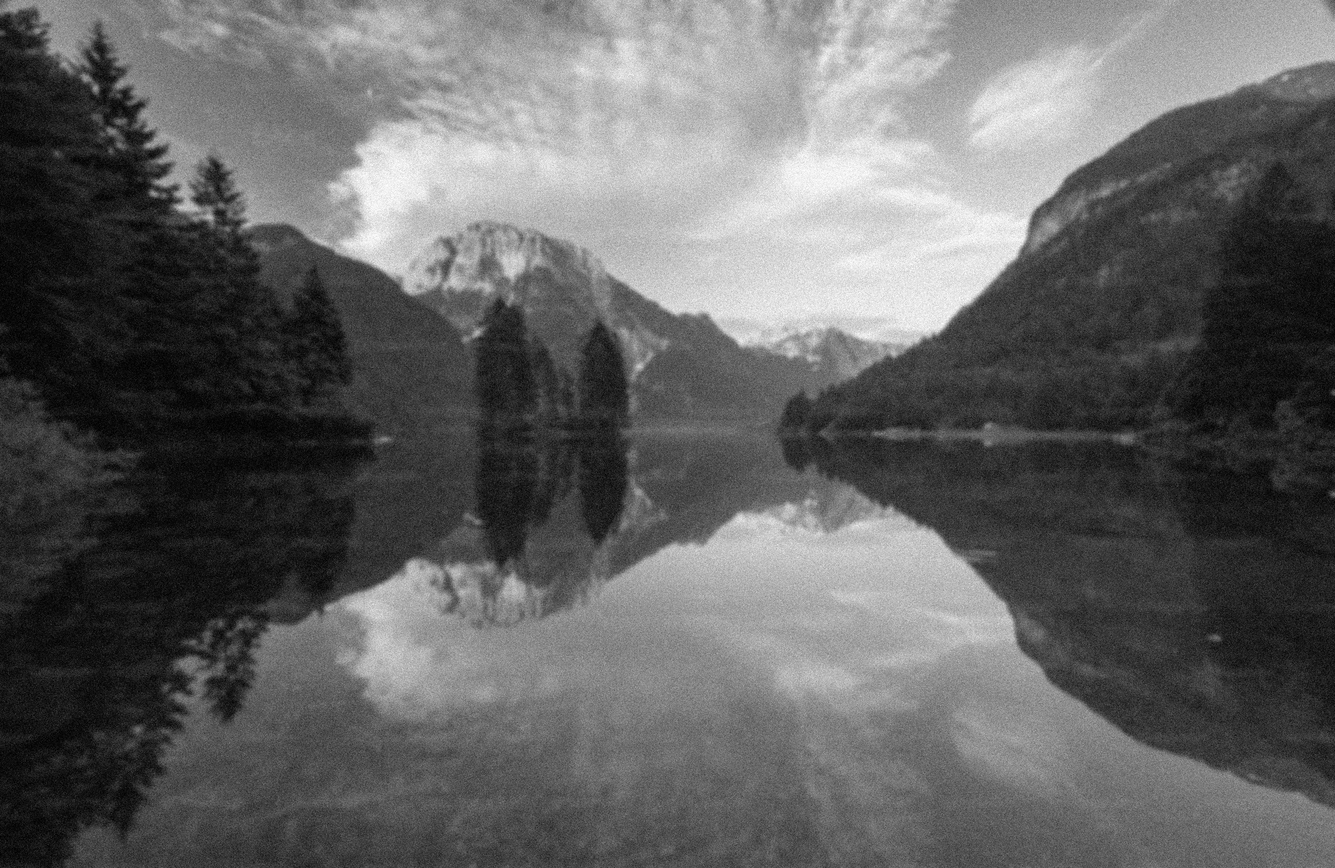
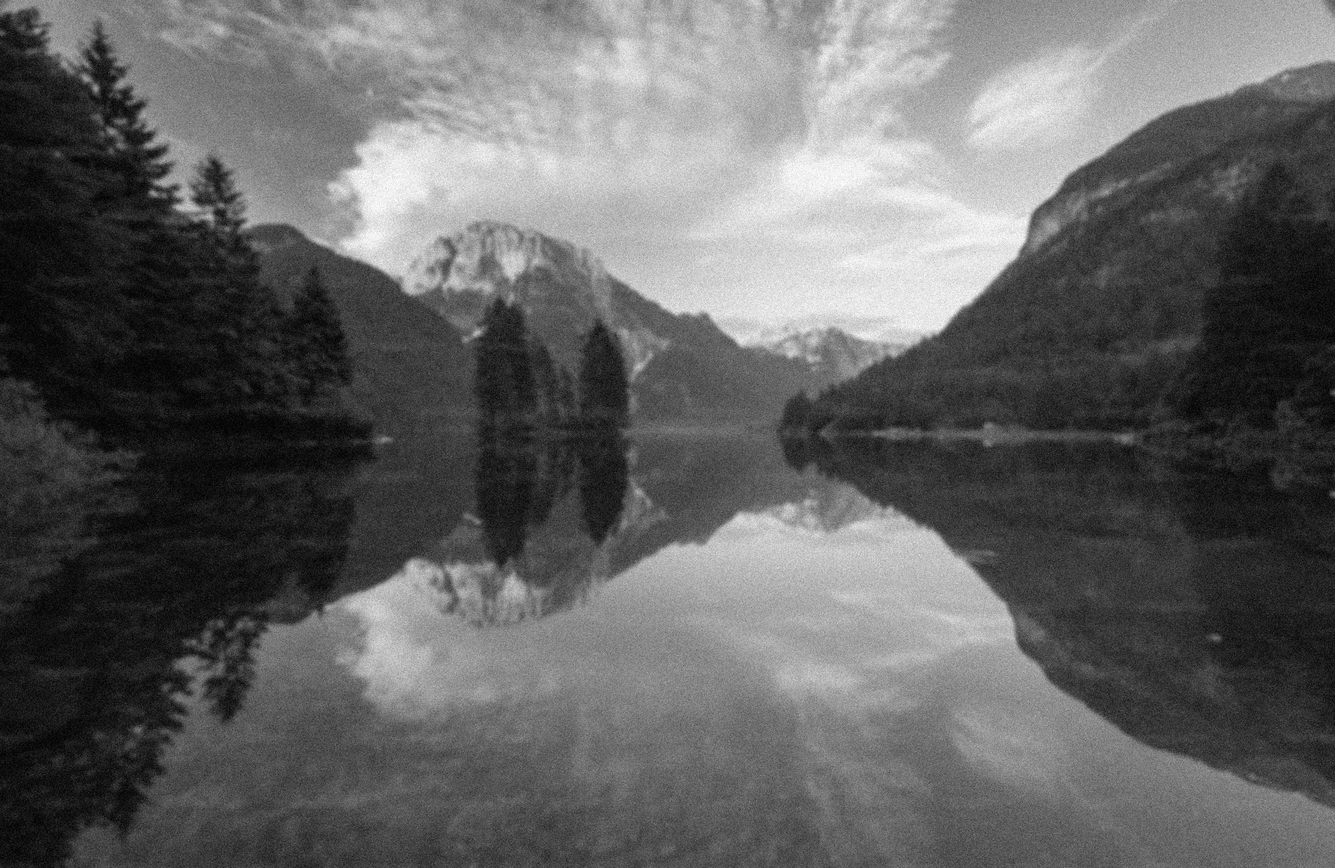
attempting wiener filter

diff --git a/VisionProject/project.py b/VisionProject/project.py
@@ -6,6 +6,8 @@ import cv2
 import os
 import numpy as np
 import matplotlib.pyplot as plt
+from skimage.restoration import wiener
+from skimage.restoration import richardson_lucy
 
 def load_image(image_path):
     image = cv2.imread(image_path, cv2.IMREAD_GRAYSCALE)
@@ -32,6 +34,24 @@ def add_gaussian_noise(image, mean=0, std_dev=20):
     noisy_image = cv2.add(image.astype(np.float32), noise)
     return np.clip(noisy_image, 0, 255).astype(np.uint8)
 
+def apply_wiener_filter(noisy_image, kernel_size=5):
+    # Normalize the input noisy image to [0, 1]
+    normalized_image = noisy_image / 255.0
+    
+    # Create a uniform kernel
+    kernel = np.ones((kernel_size, kernel_size)) / (kernel_size ** 2)
+    
+    # Estimate noise variance (ensure noisy_image and filtered image have same scale)
+    filtered_image = cv2.filter2D(normalized_image, -1, kernel)
+    noise_variance = np.var(normalized_image - filtered_image)
+    
+    # Apply Wiener filter
+    deblurred_image = wiener(normalized_image, kernel, noise_variance)
+    
+    # Scale the result back to [0, 255] and convert to uint8
+    return np.clip(deblurred_image * 255, 0, 255).astype(np.uint8)
+
+
 def main():
     # Paths for input and output images
     input_image_path = "image1.jpeg"  # Replace with your image path
@@ -53,6 +73,11 @@ def main():
     # Step 3: Add Gaussian noise
     noisy_image = add_gaussian_noise(blurred_image, mean=0, std_dev=20)
     save_image(noisy_image, os.path.join(output_dir, "noisy_image.jpg"))
+    
+    # Step 4: Apply Wiener filtering
+    deblurred_image_wiener = apply_wiener_filter(noisy_image, kernel_size=5)
+    save_image(deblurred_image_wiener, os.path.join(output_dir, "deblurred_image_wiener.jpg"))
+
     
 if __name__ == "__main__":
     main()
